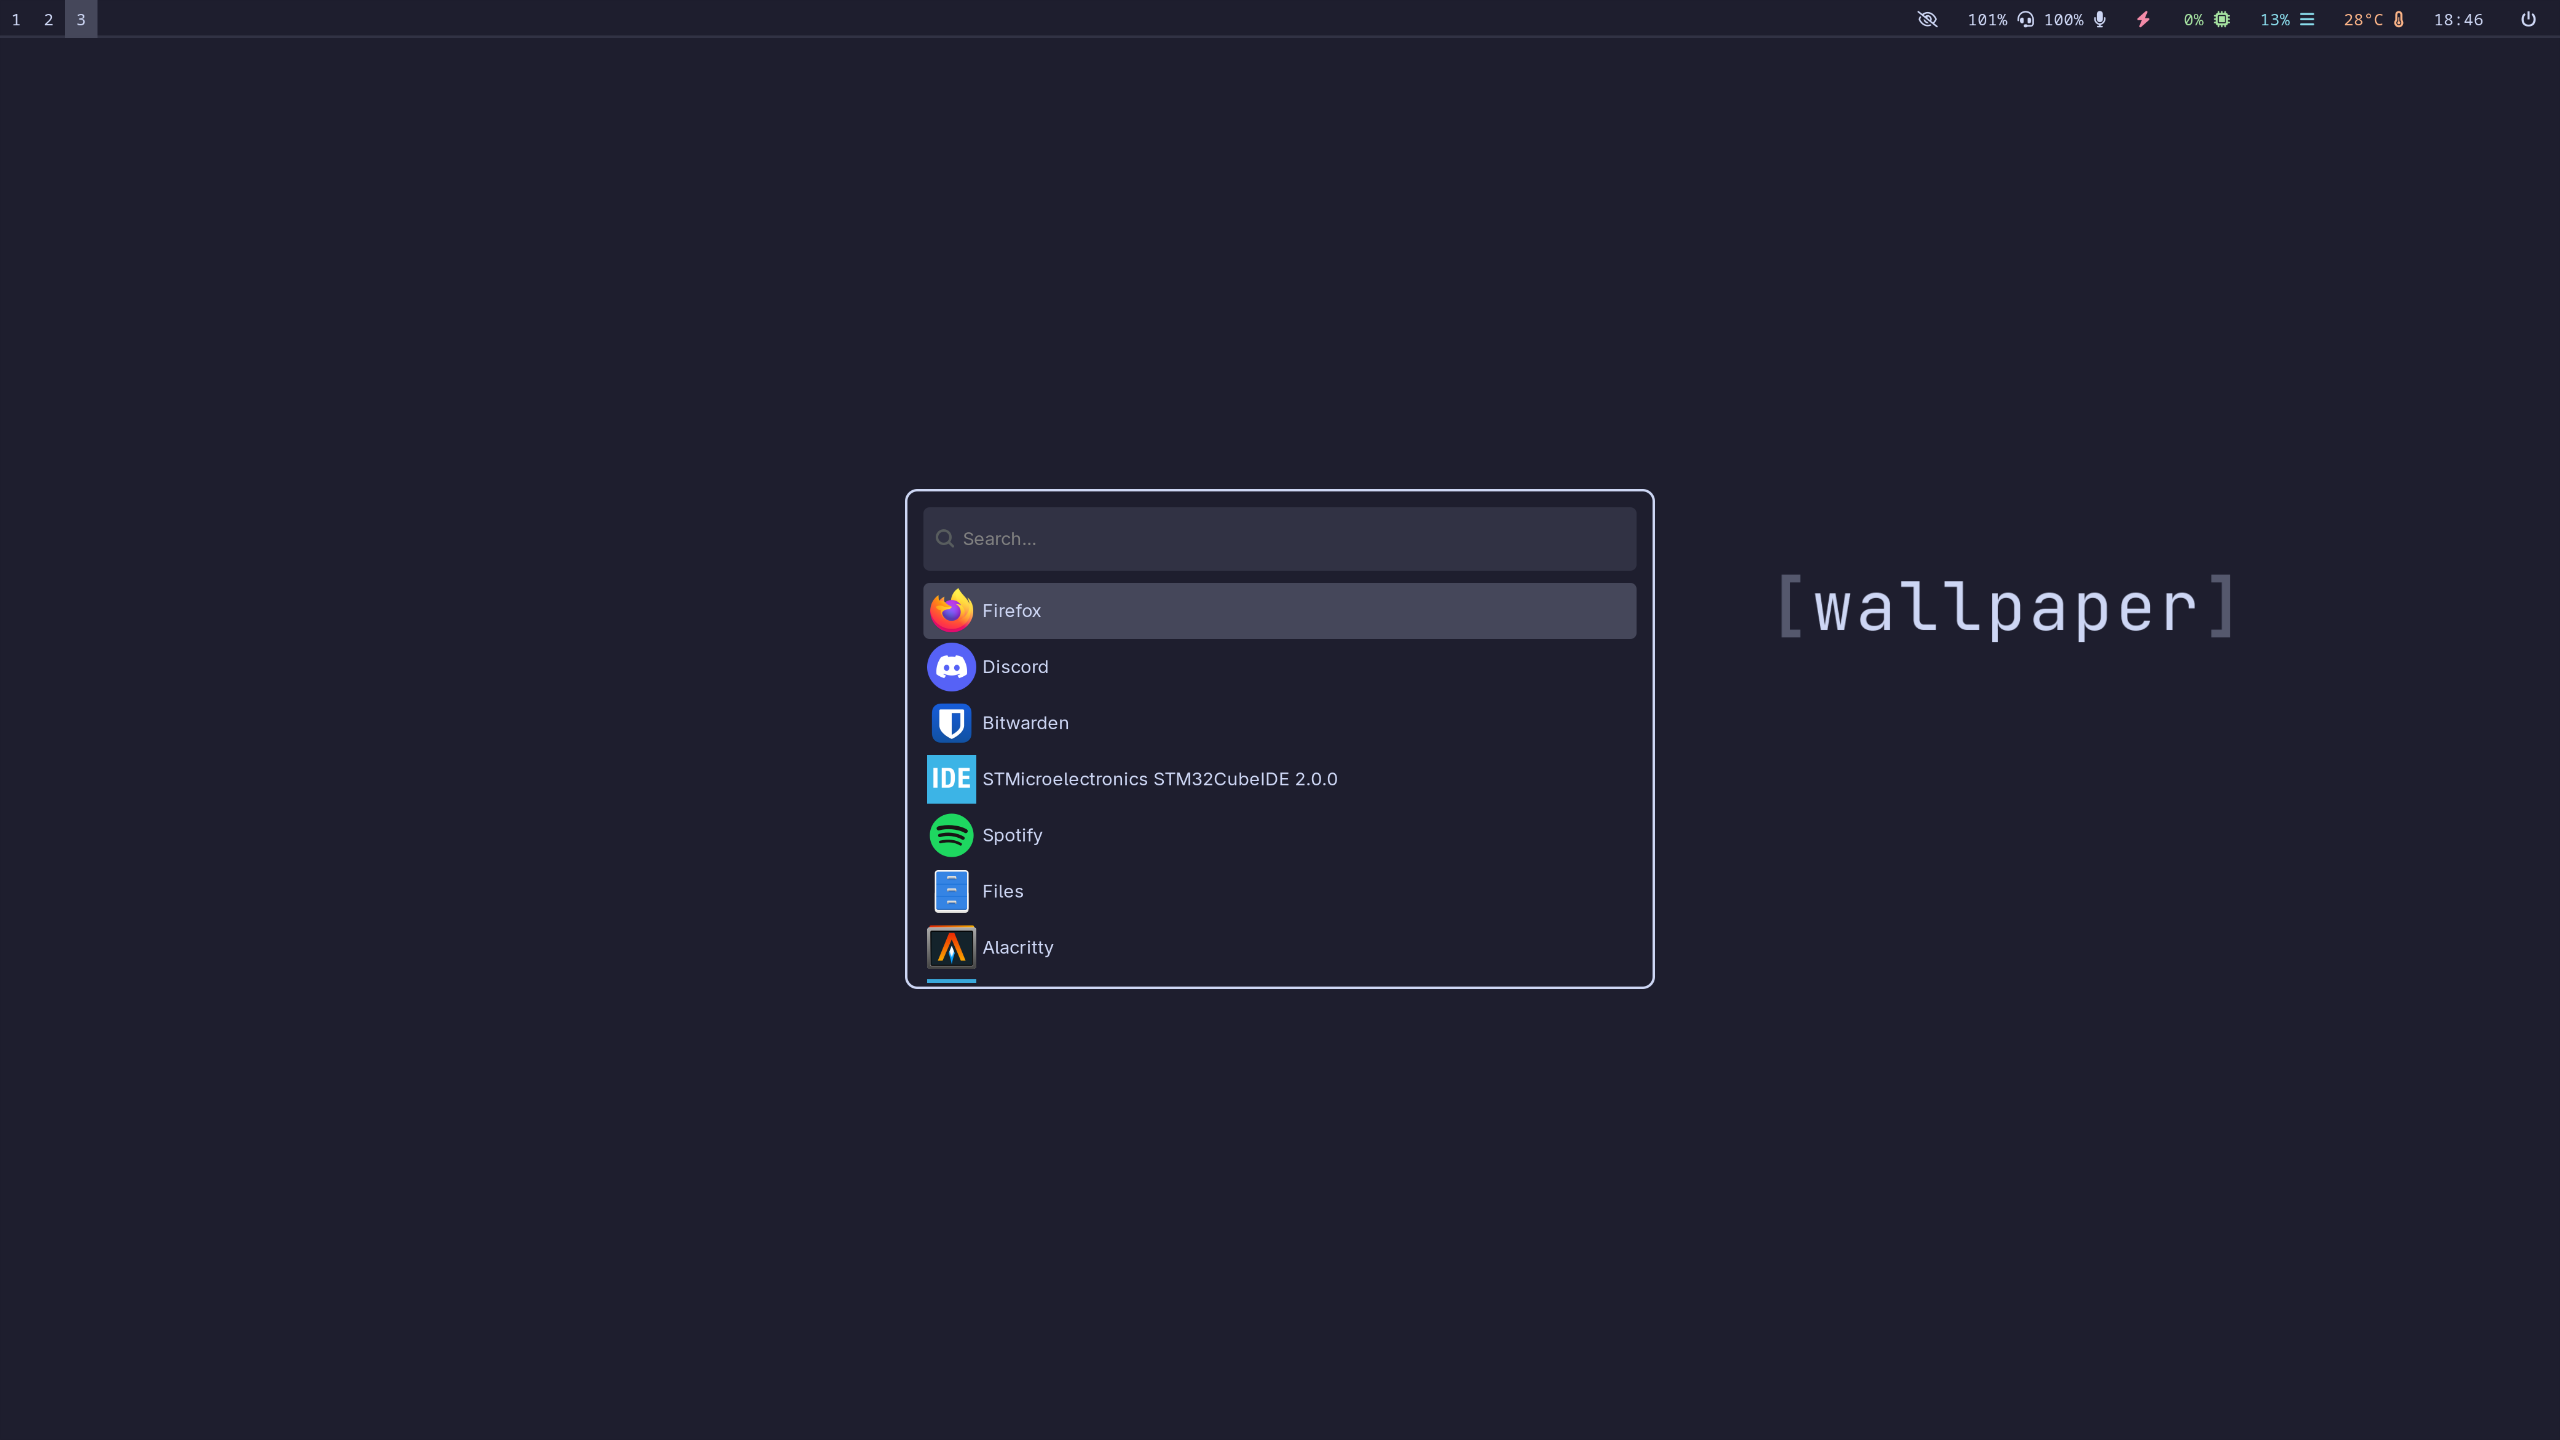
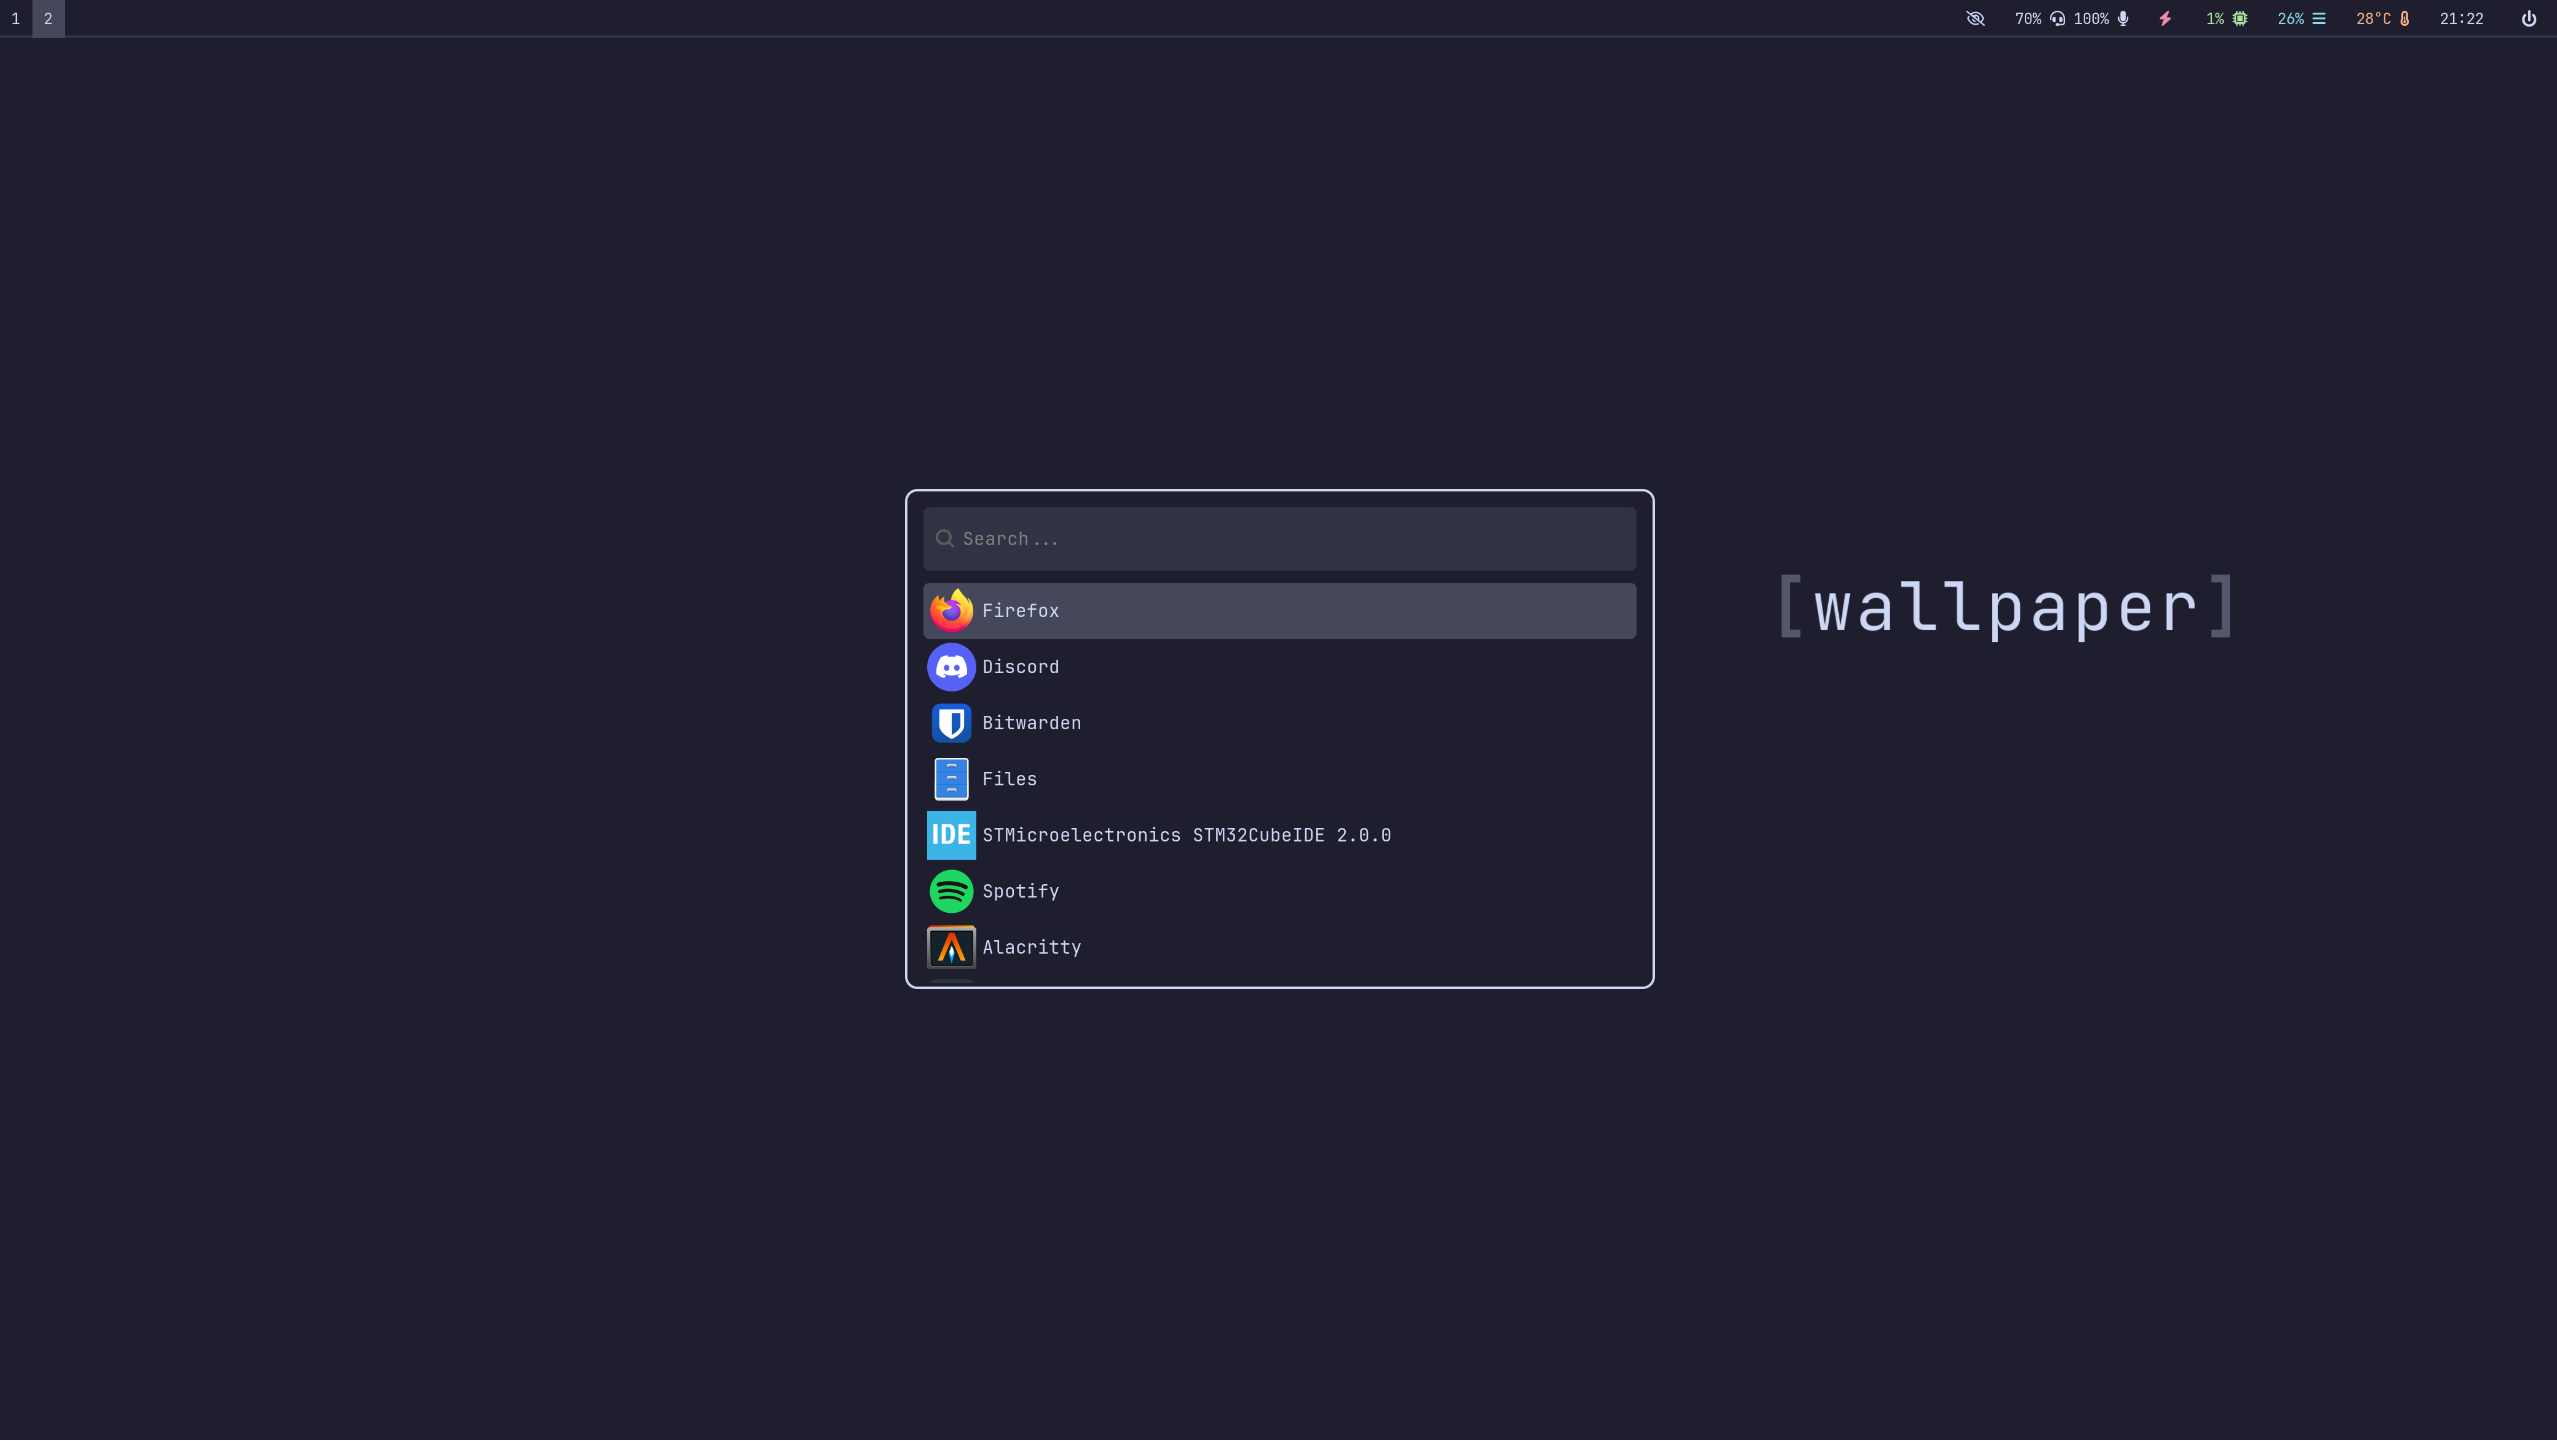
Consistently use JetBrains mono
Includes screenshot updates

diff --git a/.config/waybar/style.css b/.config/waybar/style.css
@@ -1,6 +1,6 @@
 * {
-    font-family: 'Noto Sans Mono', 'Font Aweseome 6 Free', 'Font Awesome 6 Brands', monospace;
-    font-size: 13px;
+    font-family: 'JetBrainsMono', 'Font Aweseome 6 Free', 'Font Awesome 6 Brands', monospace;
+    font-size: 12px;
 }
 
 window#waybar {
@@ -177,7 +177,6 @@ button:hover {
     color: #89b4fa;
 }
 
-
 #power-profiles-daemon.power-saver {
     color: #a6e3a1;
 }
@@ -238,7 +237,7 @@ label:focus {
 
 #custom-power {
     min-width: 25px;
-    font-size: 23px;
+    font-size: 18px;
 }
 
 #custom-media.custom-spotify {

diff --git a/.config/wofi/style.css b/.config/wofi/style.css
@@ -1,4 +1,5 @@
 window {
+    font-family: 'JetBrainsMono NF';
     margin: 0px;
     border: 2px solid #cdd6f4;
     background-color: #1e1e2e;
